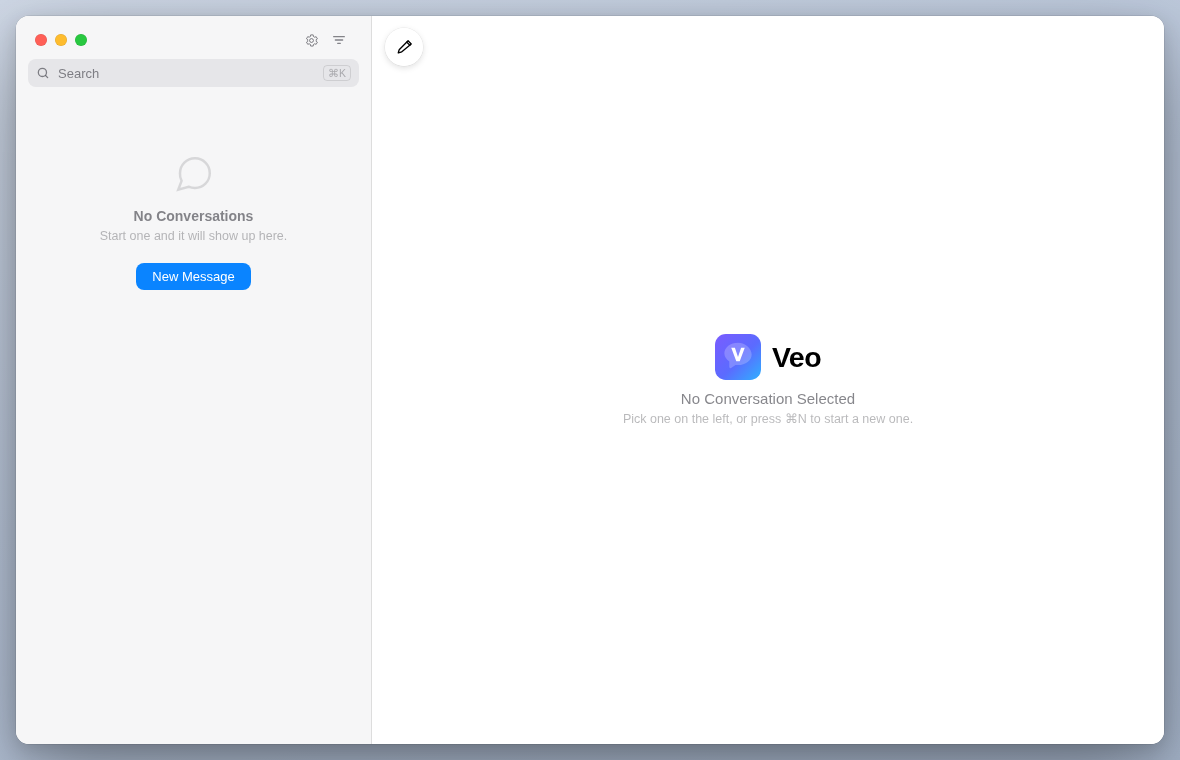
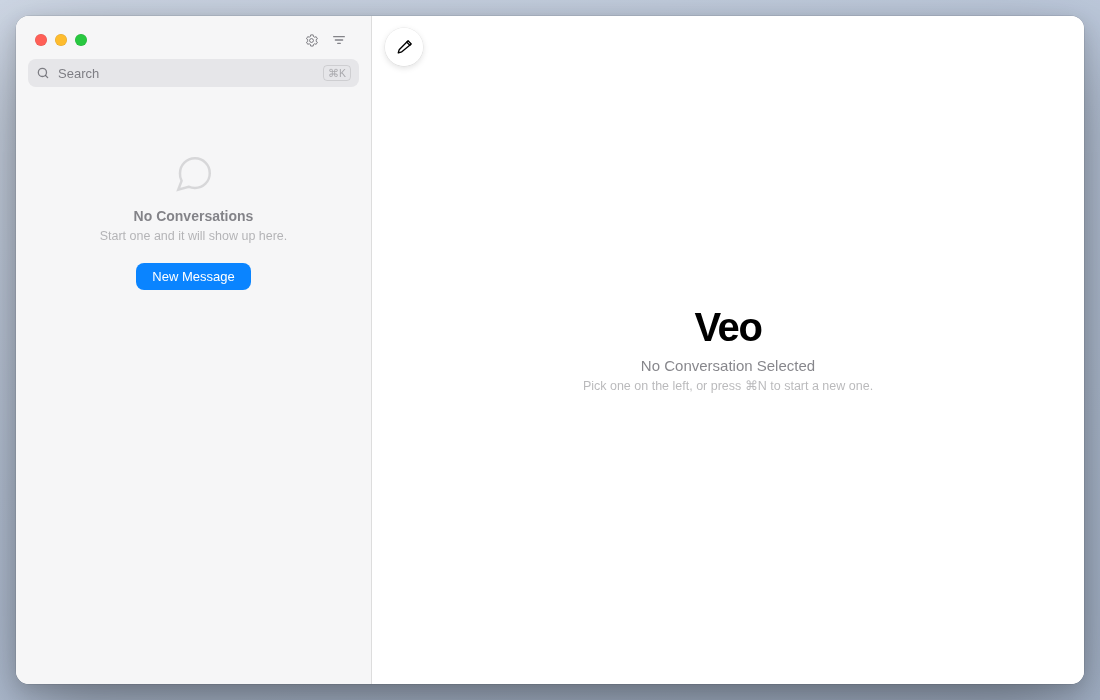
Make the brand typographic: the word, no mark
Replaces the bubble-and-V icon with the name itself.

- Wordmark is now a span rather than an SVG, so it inherits the theme's text
  colour and the system font stack, stays sharp at any size, and needs no
  gradient ids at all — the whole class of duplicate-id bugs goes away with it
- Settings → About and the welcome pane show the word on its own
- icons are the same idea rasterised: white type on a near-black tile, with
  the favicon carrying just the V because three letters at 32 px are an
  illegible smudge, and the maskable variant setting the word smaller with
  the background run to the edge, since its corners are cropped

Also drops the generated comparison sheet used to pick a direction.

Gates: typecheck, lint 0/0, 129 unit tests, 83 E2E (13 skipped), build.

diff --git a/src/components/Logo.tsx b/src/components/Logo.tsx
@@ -1,51 +1,15 @@
-import { useId } from 'react';
-
 /**
- * The Veo mark: a speech bubble with the V cut out of it.
+ * The Veo brand is typographic: the name, set tight, and nothing else.
  *
- * The gradient needs an id, and this renders in several places at once (the
- * welcome pane, Settings, the crash screen), so the id comes from `useId` —
- * two copies with the same gradient id would make the second one reference
- * the first, which breaks the moment the first unmounts.
+ * `size` is the cap height to aim for, so callers can ask for a wordmark that
+ * matches the text around it without doing the arithmetic.
  */
-export function Logo({ size = 44, title }: { size?: number; title?: string }) {
-  const id = useId().replace(/:/g, '');
-
+export function Wordmark({ size = 40, muted = false }: { size?: number; muted?: boolean }) {
   return (
-    <svg
-      width={size}
-      height={size}
-      viewBox="0 0 64 64"
-      role={title ? 'img' : 'presentation'}
-      aria-label={title}
-      aria-hidden={title ? undefined : true}
-    >
-      <defs>
-        <linearGradient id={`veo-${id}`} x1="0" y1="0" x2="1" y2="1">
-          <stop offset="0" stopColor="#7A5CFF" />
-          <stop offset="0.55" stopColor="#5B6BFF" />
-          <stop offset="1" stopColor="#2FB0FF" />
-        </linearGradient>
-      </defs>
-      <rect width="64" height="64" rx="15" fill={`url(#veo-${id})`} />
-      <path
-        fill="#fff"
-        opacity="0.22"
-        d="M32 12c-10.5 0-19 6.6-19 14.8 0 4.6 2.7 8.7 6.9 11.4V46a1.6 1.6 0 0 0 2.5 1.3l6.2-4.2c1.1.1 2.2.2 3.4.2 10.5 0 19-6.6 19-14.8S42.5 12 32 12Z"
-      />
-      <path fill="#fff" d="M22.6 19.2h5.1l4.3 12.9 4.3-12.9h5.1l-7 18.6h-4.8l-7-18.6Z" />
-    </svg>
+    <span className={`wordmark-text ${muted ? 'muted' : ''}`} style={{ fontSize: size }}>
+      Veo
+    </span>
   );
 }
 
-/** Mark plus wordmark, for headers and the welcome pane. */
-export function Wordmark({ size = 40 }: { size?: number }) {
-  return (
-    <div className="wordmark">
-      <Logo size={size} />
-      <span className="wordmark-text" style={{ fontSize: size * 0.62 }}>
-        Veo
-      </span>
-    </div>
-  );
-}
+export default Wordmark;

diff --git a/src/components/Modals.tsx b/src/components/Modals.tsx
@@ -7,7 +7,6 @@ import { Memoji } from './Memoji';
 import { useMemojiSpec } from '../lib/useMemoji';
 import { isAddressable, makeContact } from '../lib/contacts';
 import { IconCheck, IconPlus, IconSearch } from './Icons';
-import { Logo } from './Logo';
 
 /* Injected at build time (see vite.config.ts). The guard keeps the component
    renderable under any runner that does not define them. */
@@ -329,7 +328,6 @@ export function SettingsModal({ onClose }: { onClose: () => void }) {
             About
           </div>
           <div className="about-row">
-            <Logo size={44} title="Veo" />
             <div>
               <div className="about-name">Veo</div>
               <div className="about-meta">

diff --git a/src/components/ChatView.tsx b/src/components/ChatView.tsx
@@ -23,7 +23,7 @@ export function ChatView({ onBack, onToggleDetails }: { onBack: () => void; onTo
     return (
       <section className="chat" id="main" aria-label="Conversation">
         <div className="no-chat">
-          <Wordmark size={46} />
+          <Wordmark size={40} />
           <div>
             <div style={{ fontSize: 15, color: 'var(--text-2)' }}>No Conversation Selected</div>
             <div style={{ fontSize: 12.5, marginTop: 4 }}>Pick one on the left, or press ⌘N to start a new one.</div>

diff --git a/src/styles/app.css b/src/styles/app.css
@@ -3237,15 +3237,15 @@
 }
 
 /* ───────────────── brand ───────────────── */
-.wordmark {
-  display: flex;
-  align-items: center;
-  gap: 11px;
-}
 .wordmark-text {
   font-weight: 700;
-  letter-spacing: -0.02em;
+  /* tight tracking is what makes three letters read as a mark */
+  letter-spacing: -0.035em;
   color: var(--text);
+  line-height: 1;
+}
+.wordmark-text.muted {
+  color: var(--text-2);
 }
 .about-row {
   display: flex;

diff --git a/README.md b/README.md
@@ -387,6 +387,16 @@ carried by reference to the same `Blob`, so forwarding a 40 MB video costs nothi
 and the copy is still downloadable. The result is marked **Forwarded** above the bubble,
 and the app follows you into the conversation it landed in.
 
+### The brand is the word
+
+There is no logo. The mark is the name, set bold and tight: `Wordmark` is a span, not
+an SVG, so it inherits the theme's text colour and the system font stack, and it is
+sharp at any size and in any colour scheme for free. The app icons are the same idea
+rasterised — white type on a near-black tile — with one concession to physics: at 32 px
+three letters are an illegible smudge, so the favicon carries just the **V**. The
+maskable icon sets the word smaller and runs the background to the edge, because the
+corners are cropped away.
+
 ### The name
 
 The app was called Messages; it is called **Veo** now, and the rename reaches the title,
